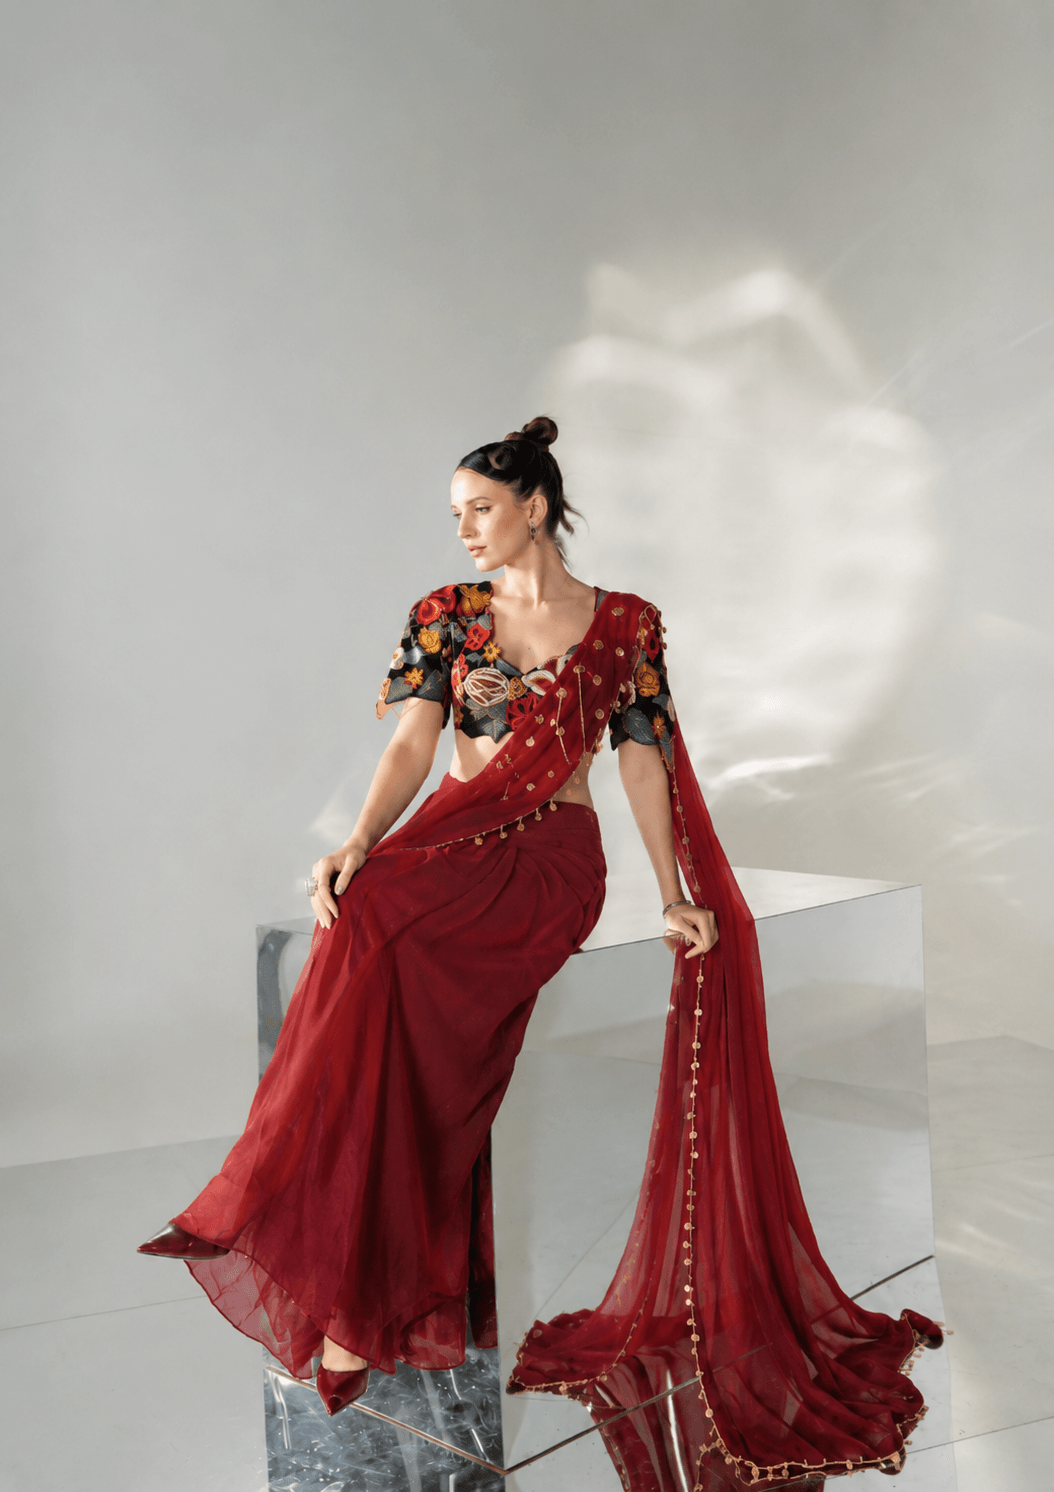
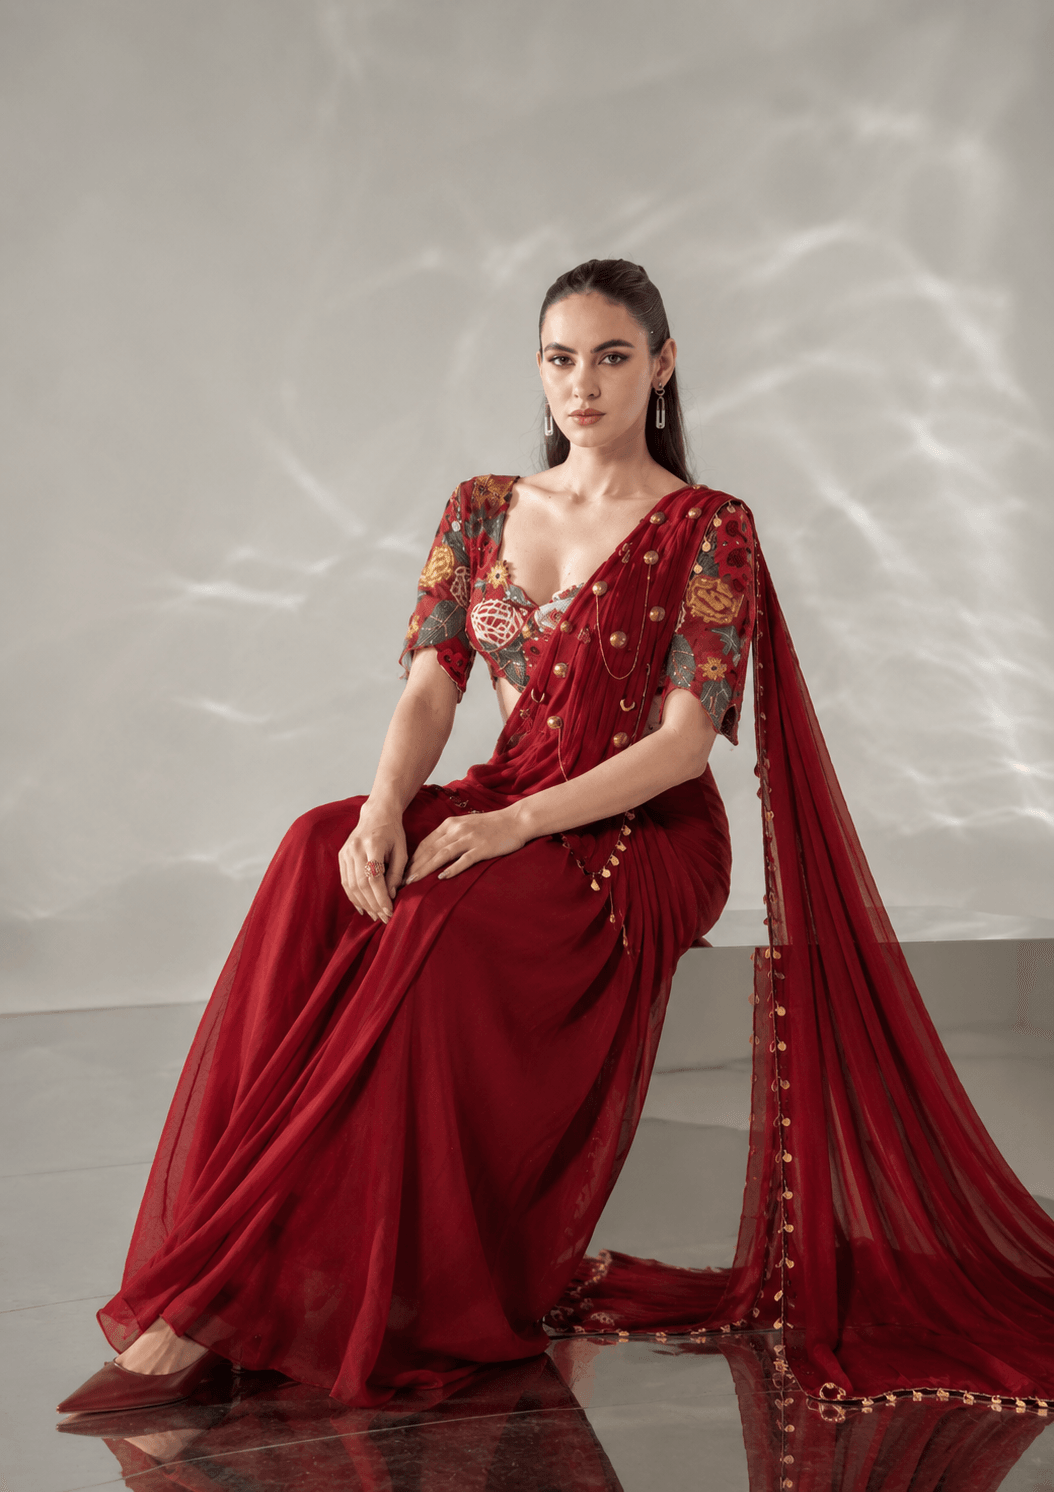
do

diff --git a/scripts/fix-zoya-cherry-red-images.ts b/scripts/fix-zoya-cherry-red-images.ts
@@ -1,0 +1,46 @@
+/**
+ * Script: fix-zoya-cherry-red-images.ts
+ * Run with: npx tsx scripts/fix-zoya-cherry-red-images.ts
+ * 
+ * Updates Firestore to remove photos 3 and 4 from Zoya Cherry Red
+ * and set the correct 5-image sequence.
+ */
+
+import { loadEnvConfig } from "@next/env";
+loadEnvConfig(process.cwd());
+
+import { adminDb } from "../src/firebase/admin";
+import { COLLECTIONS } from "../src/types/firestore";
+import { FieldValue } from "firebase-admin/firestore";
+
+async function main() {
+  const productId = "prod-zoya-cherry-red";
+  const newImages = [
+    "/images/products/prod-zoya-cherry-red/prod-zoya-cherry-red-01.png",
+    "/images/products/prod-zoya-cherry-red/prod-zoya-cherry-red-02.png",
+    "/images/products/prod-zoya-cherry-red/prod-zoya-cherry-red-03.png",
+    "/images/products/prod-zoya-cherry-red/prod-zoya-cherry-red-04.png",
+    "/images/products/prod-zoya-cherry-red/prod-zoya-cherry-red-05.png",
+  ];
+
+  const ref = adminDb.collection(COLLECTIONS.products).doc(productId);
+  const snap = await ref.get();
+
+  if (!snap.exists) {
+    console.error(`Product "${productId}" not found in Firestore.`);
+    process.exit(1);
+  }
+
+  const oldImages = snap.data()?.images || [];
+  console.log(`Old images (${oldImages.length}):`, oldImages);
+  console.log(`\nNew images (${newImages.length}):`, newImages);
+
+  await ref.update({
+    images: newImages,
+    updatedAt: FieldValue.serverTimestamp(),
+  });
+
+  console.log(`\n✅ Firestore updated for "${productId}" — ${newImages.length} images set.`);
+}
+
+main().catch(console.error);
